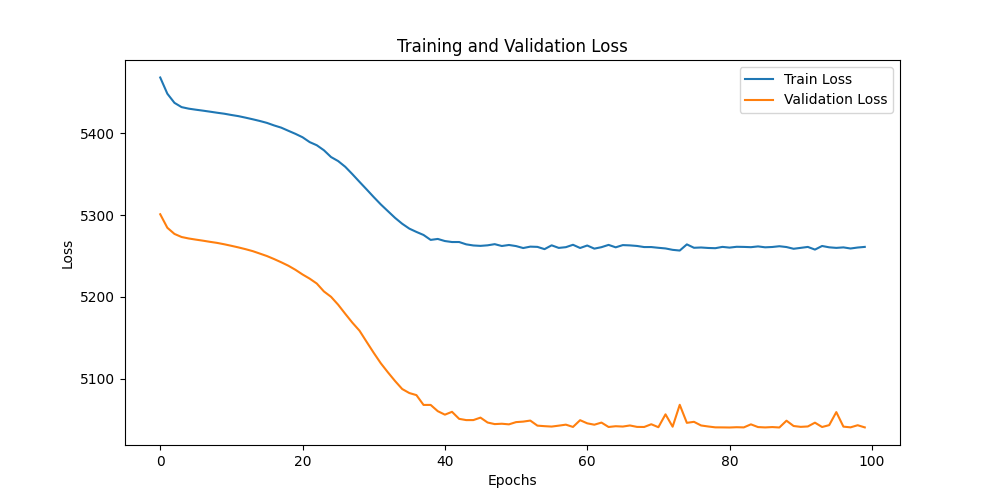
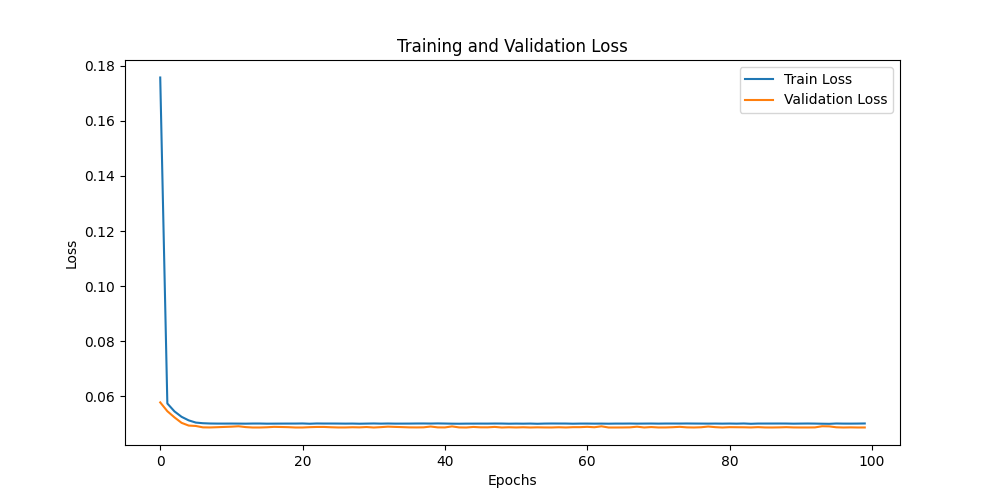
iñigo +3

diff --git a/src/exercise_02/train.py b/src/exercise_02/train.py
@@ -8,7 +8,8 @@ from torch.utils.data import DataLoader, random_split
 from tqdm import tqdm
 
 from .dataset import NoisyRegressionDataset
-from .model import MultiplePerceptron
+from .model import MultiLayerPerceptron
+
 
 def get_device(force: str = "cuda") -> torch.device:
     """Return a torch.device based on the `force` option.
@@ -23,16 +24,29 @@ def get_device(force: str = "cuda") -> torch.device:
     # auto
     return torch.device("cuda" if torch.cuda.is_available() else "cpu")
 
+
 def train_model(output_folder: Path, device: torch.device):
     # Create an instance of the dataset
     dataset = NoisyRegressionDataset(size=10000)
 
+    # ADDED CODE -> WE NORMALIZE THE DATA
+    dataset_normalize = dataset
+    # Obtain the range in x
+    x_max = max(dataset_normalize.x)
+    x_min = min(dataset_normalize.x)
+    # Obtain the range in y
+    y_max = max(dataset_normalize.y)
+    y_min = min(dataset_normalize.y)
+    # Normalize the data to be between 0 and 1
+    dataset_normalize.x = (dataset_normalize.x - x_min) / (x_max - x_min)
+    dataset_normalize.y = (dataset_normalize.y - y_min) / (y_max - y_min)
+
     # Split the dataset into train, validation, and test sets
-    train_size = int(0.7 * len(dataset))
-    val_size = int(0.15 * len(dataset))
-    test_size = len(dataset) - train_size - val_size
+    train_size = int(0.7 * len(dataset_normalize))
+    val_size = int(0.15 * len(dataset_normalize))
+    test_size = len(dataset_normalize) - train_size - val_size
     train_dataset, val_dataset, test_dataset = random_split(
-        dataset, [train_size, val_size, test_size]
+        dataset_normalize, [train_size, val_size, test_size]
     )
 
     # Create DataLoaders for the datasets
@@ -43,12 +57,12 @@ def train_model(output_folder: Path, device: torch.device):
     # Define the model, loss function, and optimizer
     input_dim = 1
     output_dim = 1
-    model = MultiplePerceptron(input_dim, output_dim).to(device)
+    model = MultiLayerPerceptron(input_dim, output_dim).to(device)
     criterion = nn.MSELoss()
-    optimizer = optim.AdamW(model.parameters(), lr=0.0025)
+    optimizer = optim.AdamW(model.parameters(), lr=0.0001)
 
     # Training loop with validation and saving best weights
-    num_epochs = 100
+    num_epochs = 20
     best_val_loss = float("inf")
     best_model_path = output_folder / "best_model.pth"
 
@@ -64,8 +78,6 @@ def train_model(output_folder: Path, device: torch.device):
             targets_cuda = targets.to(device)
             outputs = model(inputs_cuda, use_activation=False)
             loss = criterion(outputs, targets_cuda)
-
-
 
             train_loss += loss.item()
 
@@ -95,12 +107,12 @@ def train_model(output_folder: Path, device: torch.device):
             best_val_loss = val_loss
             torch.save(model.state_dict(), best_model_path)
 
-        if (epoch + 1) % 10 == 0:
+        if (epoch + 1) % 1 == 0:
             print(
-                f"Epoch [{epoch+1}/{num_epochs}], Train Loss: {train_loss:.4f}, Validation Loss: {val_loss:.4f}"
+                f"Epoch [{epoch + 1}/{num_epochs}], Train Loss: {train_loss:.9f}, Validation Loss: {val_loss:.9f}"
             )
 
-    print(f"Best validation loss: {best_val_loss:.4f}, Model saved to {best_model_path}")
+    print(f"Best validation loss: {best_val_loss:.9f}, Model saved to {best_model_path}")
 
     # Plotting the training and validation loss
     plt.figure(figsize=(10, 5))
@@ -113,18 +125,16 @@ def train_model(output_folder: Path, device: torch.device):
 
     # Save the plot to the outs/ folder
     plt.savefig(output_folder / "loss_plot.png")
-    plt.savefig(output_folder / "loss_plot.png")
+
 
 if __name__ == "__main__":
     # Create output folder based on file folder
-    output_folder = Path(__file__).parent.parent.parent / "outs" / Path(__file__).parent.name  
+    output_folder = Path(__file__).parent.parent.parent / "outs" / Path(__file__).parent.name
     output_folder.mkdir(exist_ok=True, parents=True)
 
-    device = get_device("auto") # choices are "auto", "cpu", "cuda"
+    device = get_device("auto")  # choices are "auto", "cpu", "cuda"
     print(f"Using device: {device}")
     train_model(output_folder, device=device)
 
     # Set the seed for reproducibility
     torch.manual_seed(42)
-    
-    

diff --git a/src/exercise_02/evaluate.py b/src/exercise_02/evaluate.py
@@ -8,10 +8,10 @@ import torch
 from torch.utils.data import DataLoader, random_split
 
 from .dataset import NoisyRegressionDataset
-from .model import MultiplePerceptron
+from .model import MultiLayerPerceptron
 
 
-def evaluate_and_plot(loader,model, dataset_name, output_folder):
+def evaluate_and_plot(loader, model, dataset_name, output_folder):
     model.eval()
     all_inputs = []
     all_outputs = []
@@ -34,6 +34,11 @@ def evaluate_and_plot(loader,model, dataset_name, output_folder):
         ).transpose(),
         columns=["x", "y_true", "y_pred"],
     )
+
+    # ADDED CODE -> DENORMALIZE THE DATA
+    df.y_true = df.y_true * (y_max - y_min) + y_min
+    df.y_pred = df.y_pred * (y_max - y_min) + y_min
+    df.x = df.x * (x_max - x_min) + x_min
 
     # Calculate r2, MAE and MSE
     r2 = 1 - np.sum((all_targets - all_outputs) ** 2) / np.sum(
@@ -100,12 +105,24 @@ if __name__ == "__main__":
     # Create an instance of the dataset
     dataset = NoisyRegressionDataset(size=10000)
 
+    # ADDED CODE -> WE NORMALIZE THE DATA
+    dataset_normalize = dataset
+    # Obtain the range in x
+    x_max = max(dataset_normalize.x)
+    x_min = min(dataset_normalize.x)
+    # Obtain the range in y
+    y_max = max(dataset_normalize.y)
+    y_min = min(dataset_normalize.y)
+    # Normalize the data to be between 0 and 1
+    dataset_normalize.x = (dataset_normalize.x - x_min) / (x_max - x_min)
+    dataset_normalize.y = (dataset_normalize.y - y_min) / (y_max - y_min)
+
     # Split the dataset into train, validation, and test sets
-    train_size = int(0.7 * len(dataset))
-    val_size = int(0.15 * len(dataset))
-    test_size = len(dataset) - train_size - val_size
+    train_size = int(0.7 * len(dataset_normalize))
+    val_size = int(0.15 * len(dataset_normalize))
+    test_size = len(dataset_normalize) - train_size - val_size
     train_dataset, val_dataset, test_dataset = random_split(
-        dataset, [train_size, val_size, test_size]
+        dataset_normalize, [train_size, val_size, test_size]
     )
 
     # Create DataLoaders for the datasets
@@ -114,7 +131,7 @@ if __name__ == "__main__":
     test_loader = DataLoader(test_dataset, batch_size=10, shuffle=False)
 
     # Load the best model weights
-    model = SimplePerceptron(input_dim=1, output_dim=1)
+    model = MultiLayerPerceptron(input_dim=1, output_dim=1)
     model.load_state_dict(torch.load(output_folder / "best_model.pth"))
 
     metrics = {}

diff --git a/src/exercise_03/train.py b/src/exercise_03/train.py
@@ -26,14 +26,25 @@ def get_device(force: str = "auto") -> torch.device:
 def train_model(output_folder: Path, device: torch.device):
     # Create an instance of the dataset
     dataset = NoisyRegressionDataset(size=10000)
-    normalized_ds = (dataset.y.max() - dataset.y.min()) / (dataset.x.max()-dataset.x.min())
+    
+    dataset_normalize = dataset
+    # Obtain the range in x
+    x_max = max(dataset_normalize.x)
+    x_min = min(dataset_normalize.x)
+    # Obtain the range in y
+    y_max = max(dataset_normalize.y)
+    y_min = min(dataset_normalize.y)
+    # Normalize the data to be between 0 and 1
+    dataset_normalize.x = (dataset_normalize.x - x_min) / (x_max - x_min)
+    dataset_normalize.y = (dataset_normalize.y - y_min) / (y_max - y_min)
 
     # Split the dataset into train, validation, and test sets
-    train_size = int(0.7 * len(normalized_ds))
-    val_size = int(0.15 * len(normalized_ds))
-    test_size = len(normalized_ds) - train_size - val_size
+    # Split the dataset into train, validation, and test sets
+    train_size = int(0.7 * len(dataset_normalize))
+    val_size = int(0.15 * len(dataset_normalize))
+    test_size = len(dataset_normalize) - train_size - val_size
     train_dataset, val_dataset, test_dataset = random_split(
-        normalized_ds, [train_size, val_size, test_size]
+        dataset_normalize, [train_size, val_size, test_size]
     )
 
     # Create DataLoaders for the datasets

diff --git a/src/exercise_02/model.py b/src/exercise_02/model.py
@@ -2,24 +2,30 @@ import torch
 import torch.nn as nn
 
 
-class MultiplePerceptron(nn.Module):
+class MultiLayerPerceptron(nn.Module):
     def __init__(self, input_dim, output_dim):
+        n_neuron1 = 35
+        n_neuron2 = 25
         super().__init__()
-        self.fc = nn.Linear(input_dim, output_dim)
-        self.activation = nn.ReLU()
+        self.fc1 = nn.Linear(input_dim, n_neuron1)
+        self.activation1 = nn.LeakyReLU()
+        self.fc2 = nn.Linear(n_neuron1, n_neuron2)
+        self.activation2 = nn.LeakyReLU()
+        self.fc3 = nn.Linear(n_neuron2, output_dim)
+        self.activation3 = nn.Identity()  # Identity activation for output layer
 
-    def forward(self, x, use_activation=True,layers=2):
-        for _ in range(layers-1):
-            x = self.fc(x)
-            if use_activation:
-                x = self.activation(x)
-        x = self.fc(x)
-        return x
-            
-        
+    def forward(self, x, use_activation=True):
+        x1 = self.fc1(x)
+        x2 = self.activation1(x1)
+        x3 = self.fc2(x2)
+        x4 = self.activation2(x3)
+        x5 = self.fc3(x4)
+        x6 = self.activation3(x5)
+        return x6
+
 
 if __name__ == "__main__":
-    model = MultiplePerceptron(1, 1)
+    model = MultiLayerPerceptron(1, 1)
     print(model)
     x = torch.tensor([1.0])
     print(model(x))

diff --git a/src/exercise_02/dataset.py b/src/exercise_02/dataset.py
@@ -25,7 +25,7 @@ class NoisyRegressionDataset(Dataset):
 
     def plot(self, filepath):
         ax = sns.scatterplot(self.df, x="x", y="y")
-        ax.set_title("Synthetic noisy data of y=5*x+2")
+        ax.set_title("Synthetic noisy data of y=-3*x^2+5*x")
         plt.savefig(filepath)
         plt.show()
 
@@ -39,12 +39,11 @@ class NoisyRegressionDataset(Dataset):
 
 
 if __name__ == "__main__":
-    output_folder = Path(__file__).parent.parent.parent / "outs" / Path(__file__).parent.name 
+    output_folder = Path(__file__).parent.parent.parent / "outs" / Path(__file__).parent.name
     output_folder.mkdir(exist_ok=True, parents=True)
 
     dataset = NoisyRegressionDataset()
     print(f"Dataset length: {len(dataset)}")
     print(f"First item: {dataset[0]}")
     # save the plot
-    dataset.plot(output_folder / "plot_dataset_example.png")
     dataset.plot(output_folder / "plot_dataset_example.png")

diff --git a/src/exercise_03/evaluate.py b/src/exercise_03/evaluate.py
@@ -114,7 +114,7 @@ if __name__ == "__main__":
     test_loader = DataLoader(test_dataset, batch_size=10, shuffle=False)
 
     # Load the best model weights
-    model = MultiplePerceptron(input_dim=1, output_dim=1)
+    model = MultiLayerPerceptron(input_dim=1, output_dim=1, hidden_dim1=10, hidden_dim2=10)
     model.load_state_dict(torch.load(output_folder / "best_model.pth"))
 
     metrics = {}
